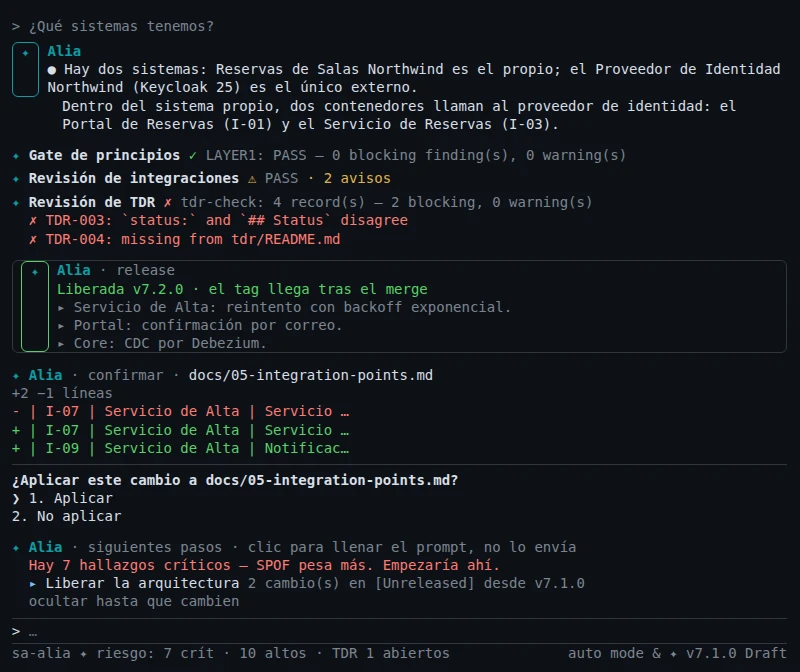
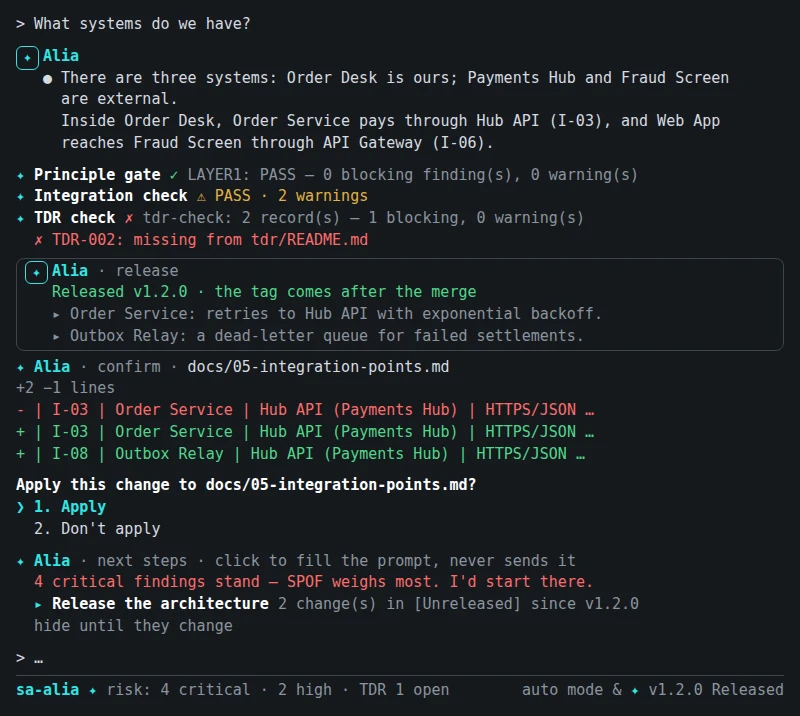
fix(analysis): a blast radius report without its section is named, never drawn as empty; every docs screenshot from the synthetic showcase v11.9.1
- analysis-chart.js --lens blast-radius: no High-Blast Components anchor → "has no High-Blast Components section";
  the empty figure only for a section present with no rows
- the terminal and the GitHub review shots redrawn over Order Desk from the plugin's own output
  (scripts/docs-screenshots/drawn/); the showcase's reports anchored; capture-page.ts takes a pixel scale

Claude-Session: https://claude.ai/code/session_01LqHQSi8VYzstHTrqrqx1j4

Changed region(s): [[0.0, 0.0, 1.0, 1.0]]

diff --git a/scripts/docs-screenshots/drawn/terminal.html b/scripts/docs-screenshots/drawn/terminal.html
@@ -1,0 +1,33 @@
+<html><head><meta charset=utf-8><style>
+body{margin:0;background:#16191d;color:#d6dbe0;font:15px/1.45 "DejaVu Sans Mono","Liberation Mono",monospace;width:800px}
+.t{padding:14px 16px}.l{white-space:pre}.a{color:#2ee6e6;font-weight:bold}.d{color:#8b949e}.g{color:#4dd88a}.y{color:#e3b341}.r{color:#ff6b6b}.w{color:#fff;font-weight:bold}
+.box{border:1px solid #2ee6e6;border-radius:6px;display:inline-block;padding:0 6px;margin:0 4px 0 0;vertical-align:top}
+.card{border:1px solid #3d444d;border-radius:8px;padding:2px 8px;margin:6px 0}
+.row{display:flex}.sp{height:10px}.foot{border-top:1px solid #3d444d;margin-top:6px;padding-top:4px;display:flex;justify-content:space-between}
+</style></head><body><div class=t>
+<div class=l>&gt; What systems do we have?</div><div class=sp></div>
+<div class=row><div><span class="box a">✦</span></div><div><div class=a>Alia</div><div class=l>● There are three systems: Order Desk is ours; Payments Hub and Fraud Screen
+  are external.
+  Inside Order Desk, Order Service pays through Hub API (I-03), and Web App
+  reaches Fraud Screen through API Gateway (I-06).</div></div></div><div class=sp></div>
+<div class=l><span class=a>✦</span> <span class=w>Principle gate</span> <span class=g>✓</span> <span class=d>LAYER1: PASS — 0 blocking finding(s), 0 warning(s)</span></div>
+<div class=l><span class=a>✦</span> <span class=w>Integration check</span> <span class=y>⚠ PASS · 2 warnings</span></div>
+<div class=l><span class=a>✦</span> <span class=w>TDR check</span> <span class=r>✗</span> <span class=d>tdr-check: 2 record(s) — 1 blocking, 0 warning(s)</span></div>
+<div class="l r">  ✗ TDR-002: missing from tdr/README.md</div>
+<div class=card><div class=row><div><span class="box a">✦</span></div><div><div class=l><span class=a>Alia</span> <span class=d>· release</span></div><div class="l g">Released v1.2.0 · the tag comes after the merge</div><div class="l d">▸ Order Service: retries to Hub API with exponential backoff.
+▸ Outbox Relay: a dead-letter queue for failed settlements.</div></div></div></div>
+<div class=l><span class=a>✦ Alia</span> <span class=d>· confirm ·</span> docs/05-integration-points.md</div>
+<div class="l d">+2 −1 lines</div>
+<div class="l r">- | I-03 | Order Service | Hub API (Payments Hub) | HTTPS/JSON …</div>
+<div class="l g">+ | I-03 | Order Service | Hub API (Payments Hub) | HTTPS/JSON …</div>
+<div class="l g">+ | I-08 | Outbox Relay | Hub API (Payments Hub) | HTTPS/JSON …</div><div class=sp></div>
+<div class="l w">Apply this change to docs/05-integration-points.md?</div>
+<div class=l><span class=a>❯ 1. Apply</span>
+  2. Don't apply</div><div class=sp></div>
+<div class=l><span class=a>✦ Alia</span> <span class=d>· next steps · click to fill the prompt, never sends it</span></div>
+<div class="l r">  4 critical findings stand — SPOF weighs most. I'd start there.</div>
+<div class=l>  <span class=a>▸</span> <span class=w>Release the architecture</span> <span class=d>2 change(s) in [Unreleased] since v1.2.0</span></div>
+<div class="l d">  hide until they change</div><div class=sp></div>
+<div class=l>&gt; …</div>
+<div class=foot><span class=l><span class=a>sa-alia ✦</span> <span class=d>risk: 4 critical · 2 high · TDR 1 open</span></span><span class="l d">auto mode &amp; <span class=a>✦</span> v1.2.0 Released</span></div>
+</div></body></html>

diff --git a/scripts/docs-screenshots/build-showcase.ts b/scripts/docs-screenshots/build-showcase.ts
@@ -13,8 +13,8 @@ add("docs/components/order-desk/03-order-service.md", cap(150, 3, 6));
 add("docs/components/order-desk/04-order-db.md", cap(300, 1, 1));
 add("docs/components/order-desk/05-outbox-relay.md", cap(200, 2, 4));
 w("docs/08-scalability-and-performance.md", `# Scalability and Performance\n\n### Demand <!-- LABEL: Demand by Use Case -->\n\n| Use Case | Value | Unit | Peak factor | Source |\n|---|---|---|---|---|\n| UC-01 | 240 | rps | 2 | Marketing forecast, holiday peak |\n`);
-w("analysis/SPOF-2026-10-01.md", `# SPOF\n## 2. Findings\n### 2.1 Critical SPOFs\n| # | Component | Failure Scenario | Impact | Current Mitigation |\n|---|---|---|---|---|\n| **C1** | \`Order DB\` | Single primary lost | Orders cannot be placed | None |\n| C2 | Hub API | Payments hub unavailable | Settlement stops | Retry with backoff |\n`);
-w("analysis/BLAST-RADIUS-2026-10-01.md", `# Blast Radius\n## 2. Findings\n### 2.1 High-Blast Components\n| # | Component | Tier | Direct Consumers | Cascade Risk | Bulkhead Present |\n|---|---|---|---|---|---|\n| B1 ⚡ | \`Order DB\` (SPOF C1) | **S1** | Order Service, Outbox Relay | Cascading | No |\n| B2 | API Gateway | S2 | Web App | Fail-closed | Yes |\n`);
-w("analysis/COUPLING-2026-10-01.md", `# Coupling\n## 2. Coupling Metrics Table\n| # | Component | Fan-in (Ca) | Fan-out (Ce) | Instability (I) | Classification | Source |\n|---|---|---|---|---|---|---|\n| 1 | Order Service | 2 | 3 | 0.60 | — | docs/05 |\n## 4. Volatile Leaves (K2)\n| # | Component | Fan-out | Instability (I) | Dependencies (list) |\n|---|---|---|---|---|\n| K2-01 | Web App | 1 | 1.00 | API Gateway |\n`);
+w("analysis/SPOF-2026-10-01.md", `# SPOF\n## 2. Findings\n### 2.1 Critical SPOFs <!-- SECTION: Critical SPOFs -->\n| # | Component | Failure Scenario | Impact | Current Mitigation |\n|---|---|---|---|---|\n| **C1** | \`Order DB\` | Single primary lost | Orders cannot be placed | None |\n| C2 | Hub API | Payments hub unavailable | Settlement stops | Retry with backoff |\n`);
+w("analysis/BLAST-RADIUS-2026-10-01.md", `# Blast Radius\n## 2. Findings\n### 2.1 High-Blast Components <!-- SECTION: High-Blast Components -->\n| # | Component | Tier | Direct Consumers | Cascade Risk | Bulkhead Present |\n|---|---|---|---|---|---|\n| B1 ⚡ | \`Order DB\` (SPOF C1) | **S1** | Order Service, Outbox Relay | Cascading | No |\n| B2 | API Gateway | S2 | Web App | Fail-closed | Yes |\n`);
+w("analysis/COUPLING-2026-10-01.md", `# Coupling\n## 2. Coupling Metrics Table <!-- SECTION: Coupling Metrics -->\n| # | Component | Fan-in (Ca) | Fan-out (Ce) | Instability (I) | Classification | Source |\n|---|---|---|---|---|---|---|\n| 1 | Order Service | 2 | 3 | 0.60 | — | docs/05 |\n## 4. Volatile Leaves (K2) <!-- SECTION: Volatile Leaves -->\n| # | Component | Fan-out | Instability (I) | Dependencies (list) |\n|---|---|---|---|---|\n| K2-01 | Web App | 1 | 1.00 | API Gateway |\n`);
 mkdirSync(join(root, "visualizations"), { recursive: true });
 copyFileSync(join(skill, "examples", "order-desk.scene.json"), join(root, "visualizations", "architecture-command-center.scene.json"));

diff --git a/scripts/docs-screenshots/capture-page.ts b/scripts/docs-screenshots/capture-page.ts
@@ -1,14 +1,14 @@
-// one full-height WebP of a static page (the viewport starts 100 px tall, so a short page is not padded): bun capture-page.ts <chrome> <page.html> <out.webp> [width]
-const [chrome, page, out, w] = process.argv.slice(2); const width = Number(w || 1200);
+// one full-height WebP of a static page (the viewport starts 100 px tall, so a short page is not padded): bun capture-page.ts <chrome> <page.html> <out.webp> [width] [scale]
+const [chrome, page, out, w, sc] = process.argv.slice(2); const width = Number(w || 1200), scale = Number(sc || 1);
 const port = 9800 + Math.floor(Math.random() * 100), sleep = (ms: number) => new Promise((r) => setTimeout(r, ms));
 const proc = Bun.spawn([chrome, "--headless=new", `--remote-debugging-port=${port}`, "--hide-scrollbars", "--no-first-run", `--user-data-dir=${require("os").tmpdir()}/cap-${port}`, "about:blank"], { stdout: "ignore", stderr: "ignore" });
 let ws: WebSocket | null = null, id = 0; const pend = new Map<number, (v: any) => void>();
 const send = (method: string, params: any = {}) => new Promise<any>((res) => { const i = ++id; pend.set(i, res); ws!.send(JSON.stringify({ id: i, method, params })); });
 for (let i = 0; i < 50 && !ws; i++) { try { const t: any = await (await fetch(`http://127.0.0.1:${port}/json`)).json(); const p = t.find((x: any) => x.type === "page"); if (p) { ws = new WebSocket(p.webSocketDebuggerUrl); break; } } catch {} await sleep(200); }
 await new Promise((r) => ws!.addEventListener("open", r)); ws!.addEventListener("message", (e) => { const m = JSON.parse(String(e.data)); if (m.id && pend.has(m.id)) { pend.get(m.id)!(m.result); pend.delete(m.id); } });
-await send("Emulation.setDeviceMetricsOverride", { width, height: 100, deviceScaleFactor: 1, mobile: false });
+await send("Emulation.setDeviceMetricsOverride", { width, height: 100, deviceScaleFactor: scale, mobile: false });
 await send("Page.enable"); await send("Page.navigate", { url: require("url").pathToFileURL(page).href }); await sleep(1500);
 const h = (await send("Runtime.evaluate", { expression: "document.documentElement.scrollHeight", returnByValue: true })).result.value;
-await send("Emulation.setDeviceMetricsOverride", { width, height: h, deviceScaleFactor: 1, mobile: false }); await sleep(500);
+await send("Emulation.setDeviceMetricsOverride", { width, height: h, deviceScaleFactor: scale, mobile: false }); await sleep(500);
 const r = await send("Page.captureScreenshot", { format: "webp", quality: 90 }); await Bun.write(out, Buffer.from(r.data, "base64")); console.log("wrote", out, width + "x" + h); proc.kill();
 export {};

diff --git a/scripts/docs-screenshots/drawn/review-dark.html b/scripts/docs-screenshots/drawn/review-dark.html
@@ -1,0 +1,26 @@
+<html><head><meta charset=utf-8><link rel=stylesheet href="https://cdn.jsdelivr.net/npm/github-markdown-css@5/github-markdown-dark.css"><style>
+body{margin:0;padding:16px 24px;background:#0d1117;font-family:-apple-system,"Segoe UI","Noto Sans",Helvetica,Arial,sans-serif;width:820px}
+.c{border:1px solid #3d444d;border-radius:6px;overflow:hidden}.h{background:#151b23;border-bottom:1px solid #3d444d;padding:8px 16px;color:#9198a1;font-size:14px;display:flex;align-items:center}
+.h b{color:#f0f6fc;margin-right:6px}.bot{border:1px solid #3d444d;border-radius:2em;padding:0 7px;font-size:12px;margin-right:6px}.dots{margin-left:auto;letter-spacing:2px}
+.markdown-body{padding:16px;font-size:14px;color:#f0f6fc}.markdown-body td,.markdown-body th{color:#f0f6fc;background:#0d1117}.markdown-body code{color:#f0f6fc}.markdown-body h3 img{vertical-align:middle}
+</style></head><body><div class=c><div class=h><b>alia-architect</b><span class=bot>Bot</span>commented <u style="margin-left:4px">now</u><span class=dots>···</span></div><div class="markdown-body">
+<h3 dir="auto"><themed-picture data-catalyst-inline="true"><img src="../../../brand/alia/github/codec-pleased.png" width="64" height="64" align="middle" alt="Alia"></themed-picture> Alia · Architecture review — ✅ PASS</h3>
+<p dir="auto">Held to <strong>order-service</strong> at architecture <strong>1.2.0</strong> (pack_revision <code class="notranslate">3f9c1a7b52e0</code>): 0 blocking · 1 warning · 0 note.</p>
+<markdown-accessiblity-table><table role="table">
+<thead>
+<tr>
+<th></th>
+<th>Check</th>
+<th>Where</th>
+<th>Finding</th>
+</tr>
+</thead>
+<tbody>
+<tr>
+<td>⚠ warning</td>
+<td><code class="notranslate">commit-unstamped</code></td>
+<td><code class="notranslate">5e1b9d2</code></td>
+<td><code class="notranslate">5e1b9d2</code> "fix: retry the outbox read" names neither architecture 1.2.0 nor the pack_revision (rule 8)</td>
+</tr>
+</tbody>
+</table></markdown-accessiblity-table></div></div></body></html>

diff --git a/scripts/docs-screenshots/drawn/review-light.html b/scripts/docs-screenshots/drawn/review-light.html
@@ -1,0 +1,26 @@
+<html><head><meta charset=utf-8><link rel=stylesheet href="https://cdn.jsdelivr.net/npm/github-markdown-css@5/github-markdown-light.css"><style>
+body{margin:0;padding:16px 24px;background:#ffffff;font-family:-apple-system,"Segoe UI","Noto Sans",Helvetica,Arial,sans-serif;width:820px}
+.c{border:1px solid #d1d9e0;border-radius:6px;overflow:hidden}.h{background:#f6f8fa;border-bottom:1px solid #d1d9e0;padding:8px 16px;color:#59636e;font-size:14px;display:flex;align-items:center}
+.h b{color:#1f2328;margin-right:6px}.bot{border:1px solid #d1d9e0;border-radius:2em;padding:0 7px;font-size:12px;margin-right:6px}.dots{margin-left:auto;letter-spacing:2px}
+.markdown-body{padding:16px;font-size:14px}.markdown-body h3 img{vertical-align:middle}
+</style></head><body><div class=c><div class=h><b>alia-architect</b><span class=bot>Bot</span>commented <u style="margin-left:4px">now</u><span class=dots>···</span></div><div class="markdown-body">
+<h3 dir="auto"><themed-picture data-catalyst-inline="true"><img src="../../../brand/alia/github/codec-pleased-light.png" width="64" height="64" align="middle" alt="Alia"></themed-picture> Alia · Architecture review — ✅ PASS</h3>
+<p dir="auto">Held to <strong>order-service</strong> at architecture <strong>1.2.0</strong> (pack_revision <code class="notranslate">3f9c1a7b52e0</code>): 0 blocking · 1 warning · 0 note.</p>
+<markdown-accessiblity-table><table role="table">
+<thead>
+<tr>
+<th></th>
+<th>Check</th>
+<th>Where</th>
+<th>Finding</th>
+</tr>
+</thead>
+<tbody>
+<tr>
+<td>⚠ warning</td>
+<td><code class="notranslate">commit-unstamped</code></td>
+<td><code class="notranslate">5e1b9d2</code></td>
+<td><code class="notranslate">5e1b9d2</code> "fix: retry the outbox read" names neither architecture 1.2.0 nor the pack_revision (rule 8)</td>
+</tr>
+</tbody>
+</table></markdown-accessiblity-table></div></div></body></html>

diff --git a/plugins/sa-analysis/skills/architecture-analysis/scripts/analysis-chart.js b/plugins/sa-analysis/skills/architecture-analysis/scripts/analysis-chart.js
@@ -286,8 +286,10 @@ function lensModel(root, lens, focus, view) {
     return { kind, lens, file: rep.file, date: rep.date, groups: f ? groups.filter((x) => normName(x.id) === f || normName(x.title).includes(f)).concat([]).filter(Boolean) : groups, focus };
   }
   if (kind === 'graph') {
+    // a report without the section (no anchor — a hand-written or pre-renderer report) cannot be read: named, never drawn as
+    // "no high-blast component"; the section present with no rows is a result, not a failure — the figure says so (11.8.6)
+    if (!/<!--\s*SECTION:\s*High-Blast Components\s*-->/.test(rep.md)) throw Object.assign(new Error(`${rep.file} has no High-Blast Components section`), { code: 1 });
     const tbl = tableOf(section(rep.md, 'High-Blast Components'));
-    // no high-blast component is a result, not a failure: the figure says so (11.8.6)
     if (!tbl || !tbl.rows.length) return { kind, lens, file: rep.file, date: rep.date, row: null, rows: [], links: [], focus, found: !f, empty: true };
     const c = (r, re) => strip(r[col(tbl, re)] || ''), list = (x) => x.split(/\s*[,;·]\s*/).map(strip).filter((n) => n && !/^(none|ninguno|—|-|not documented)$/i.test(n));
     const rows = tbl.rows.map((r) => ({ id: c(r, /^#$/), name: c(r, /^Component/i), tier: c(r, /^Tier/i), direct: list(c(r, /Direct/i)), indirect: list(c(r, /Indirect/i)),

diff --git a/plugins/sa-analysis/skills/architecture-analysis/tests/analysis-ci.test.ts b/plugins/sa-analysis/skills/architecture-analysis/tests/analysis-ci.test.ts
@@ -275,6 +275,11 @@ describe('analysis-chart.js --lens — one lens\'s own figure', () => {
       expect(lensSvg(m, info, { embed: false })).toContain('No high-blast component');
     }));
 
+  test('a blast radius report without its section is named, never drawn as empty (11.9.1)', () => at('analysis/BLAST-RADIUS-2026-03-01.md',
+    '# B\n### 2.1 High-Blast Components\n| # | Component | Tier |\n|---|---|---|\n| B1 | `Desk Store` | S1 |\n', () => {
+      expect(() => lensModel(ROOT, 'blast-radius')).toThrow(/has no High-Blast Components section/);
+    }));
+
   test('a lens without its report, or a view it does not have, is named', () => {
     expect(() => lensModel(ROOT, 'tech-debt')).toThrow(/no Markdown report of tech-debt/);
     expect(() => lensModel(ROOT, 'spof', null, 'matrix')).toThrow(/spof has no matrix view/);

diff --git a/scripts/docs-screenshots/README.md b/scripts/docs-screenshots/README.md
@@ -65,3 +65,19 @@ done
 ```
 
 `state.webp` and `verdict.webp` are both taken after the raised fill; the heat map and the waterfall before it.
+
+## The drawn shots
+
+`docs/images/claude-code/cli.webp` and `docs/images/github/review-{dark,light}.webp` are pages drawn from the plugin's own
+output over the same showcase, kept in `drawn/`: the terminal with sa-alia's rows, cards and band in their English wording
+(`plugins/sa-alia/hooks/`), and Alia's architecture review as `review-check.js`'s `render()` writes it, through GitHub's
+Markdown and its stylesheet, in both themes:
+
+```bash
+bun scripts/docs-screenshots/capture-page.ts <chrome> scripts/docs-screenshots/drawn/terminal.html docs/images/claude-code/cli.webp 800
+# the review at twice the pixels (the last argument), light the same way
+bun scripts/docs-screenshots/capture-page.ts <chrome> scripts/docs-screenshots/drawn/review-dark.html docs/images/github/review-dark.webp 868 2
+```
+
+The desktop app's shots (`reply-codec`, `alia-pane`, `arch-card`, `question-codec`) are screenshots of the app with the
+showcase open: build it as above, open the folder in the desktop app with sa-alia installed, and take them there.

diff --git a/CHANGELOG.md b/CHANGELOG.md
@@ -7,6 +7,14 @@ and this project adheres to [Semantic Versioning](https://semver.org/spec/v2.0.0
 
 10.1.0 is the first public release. Earlier versions were developed privately and their history is not published.
 
+## [11.9.1] - 2026-11-03
+
+### Fixed
+- `analysis-chart.js --lens blast-radius`: a report without its *High-Blast Components* section (no `SECTION` anchor — hand-written, or written before the renderer) is named as unreadable instead of drawn as "No high-blast component in this run"; the empty figure is kept for a section present with no rows.
+
+### Changed
+- Every screenshot in the docs comes from the synthetic Order Desk showcase: the terminal (`docs/images/claude-code/cli.webp`) and Alia's review on GitHub (`docs/images/github/`) are drawn from the plugin's own output — the pages kept in `scripts/docs-screenshots/drawn/`; the showcase's analysis reports carry their section anchors; `capture-page.ts` takes a pixel scale.
+
 ## [11.9.0] - 2026-11-03
 
 ### Changed

diff --git a/README.md b/README.md
@@ -3,7 +3,7 @@
 <div align="center">
 
 [![check](https://github.com/shadowX4fox/solutions-architect-skills/actions/workflows/check.yml/badge.svg)](https://github.com/shadowX4fox/solutions-architect-skills/actions/workflows/check.yml)
-[![Version](https://img.shields.io/badge/version-11.9.0-0C9DA3.svg)](CHANGELOG.md)
+[![Version](https://img.shields.io/badge/version-11.9.1-0C9DA3.svg)](CHANGELOG.md)
 [![License: MIT](https://img.shields.io/badge/license-MIT-0A7177.svg)](LICENSE)
 [![Claude Code plugin](https://img.shields.io/badge/Claude%20Code-plugin-1B1F24.svg)](https://claude.com/claude-code)
 [![PRs welcome](https://img.shields.io/badge/PRs-welcome-1B7148.svg)](CONTRIBUTING.md)
